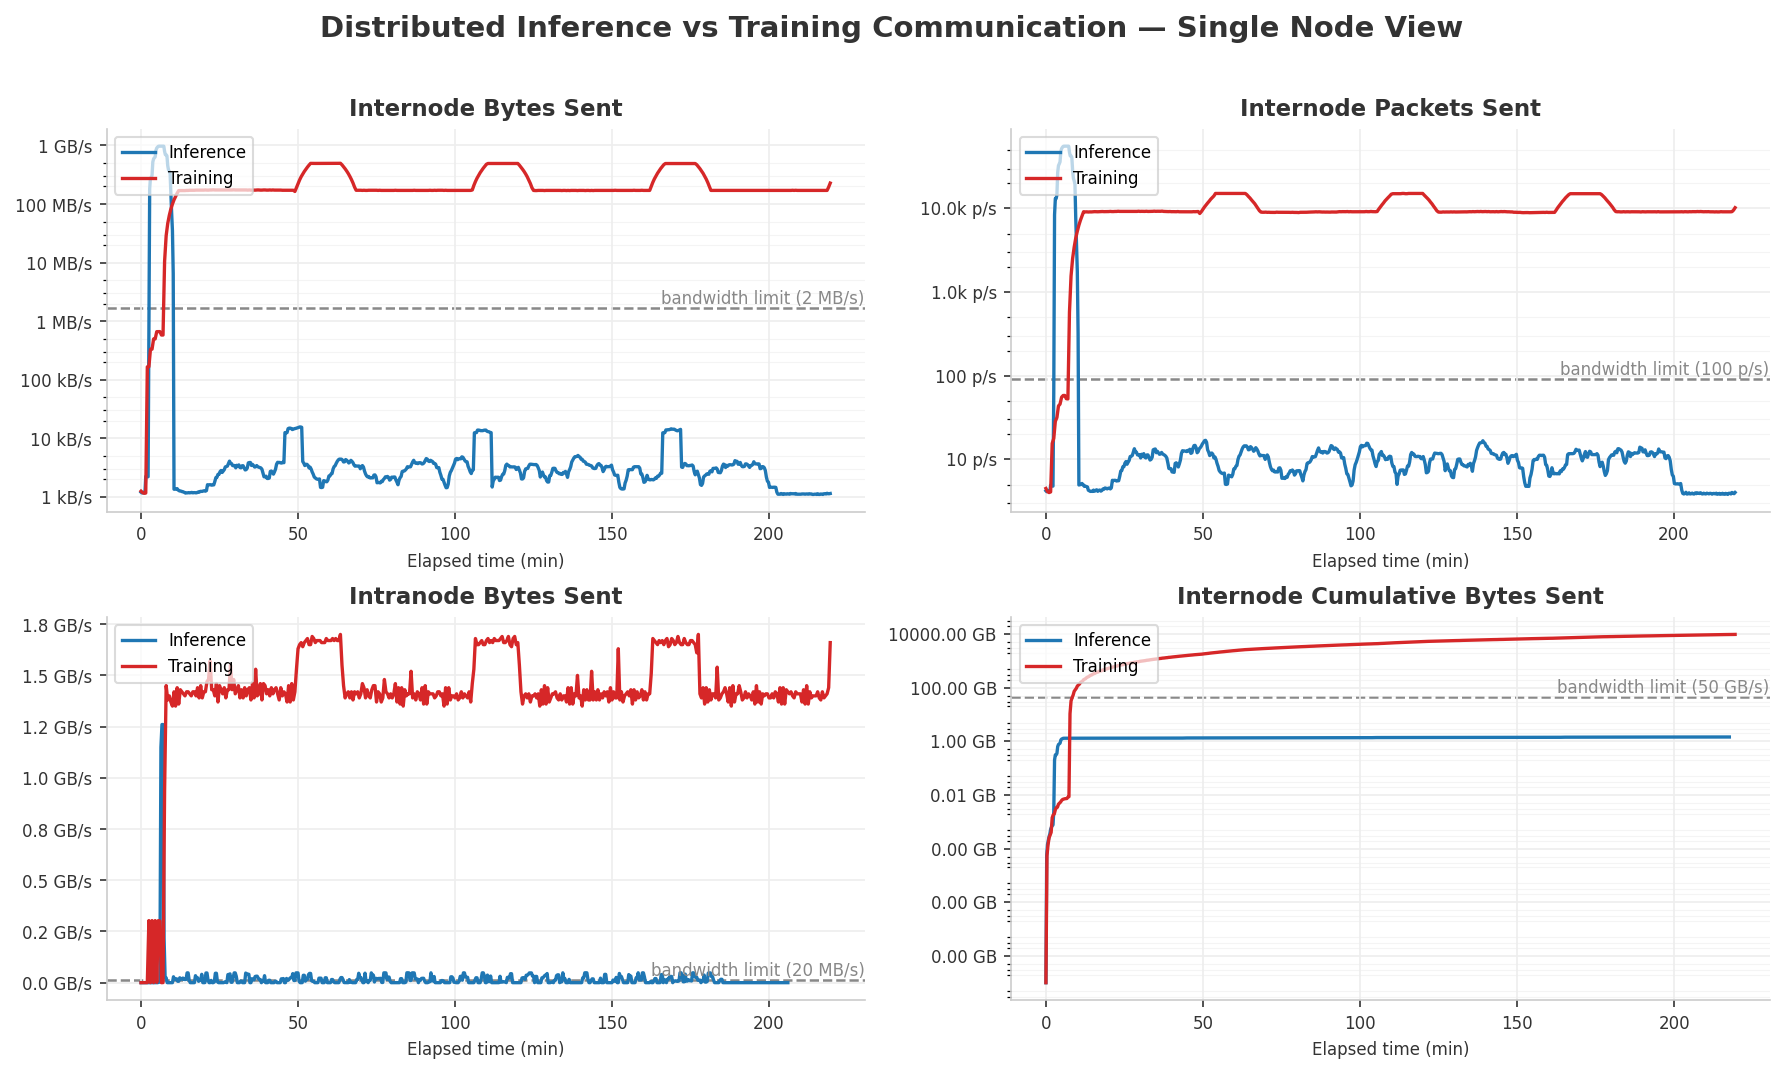
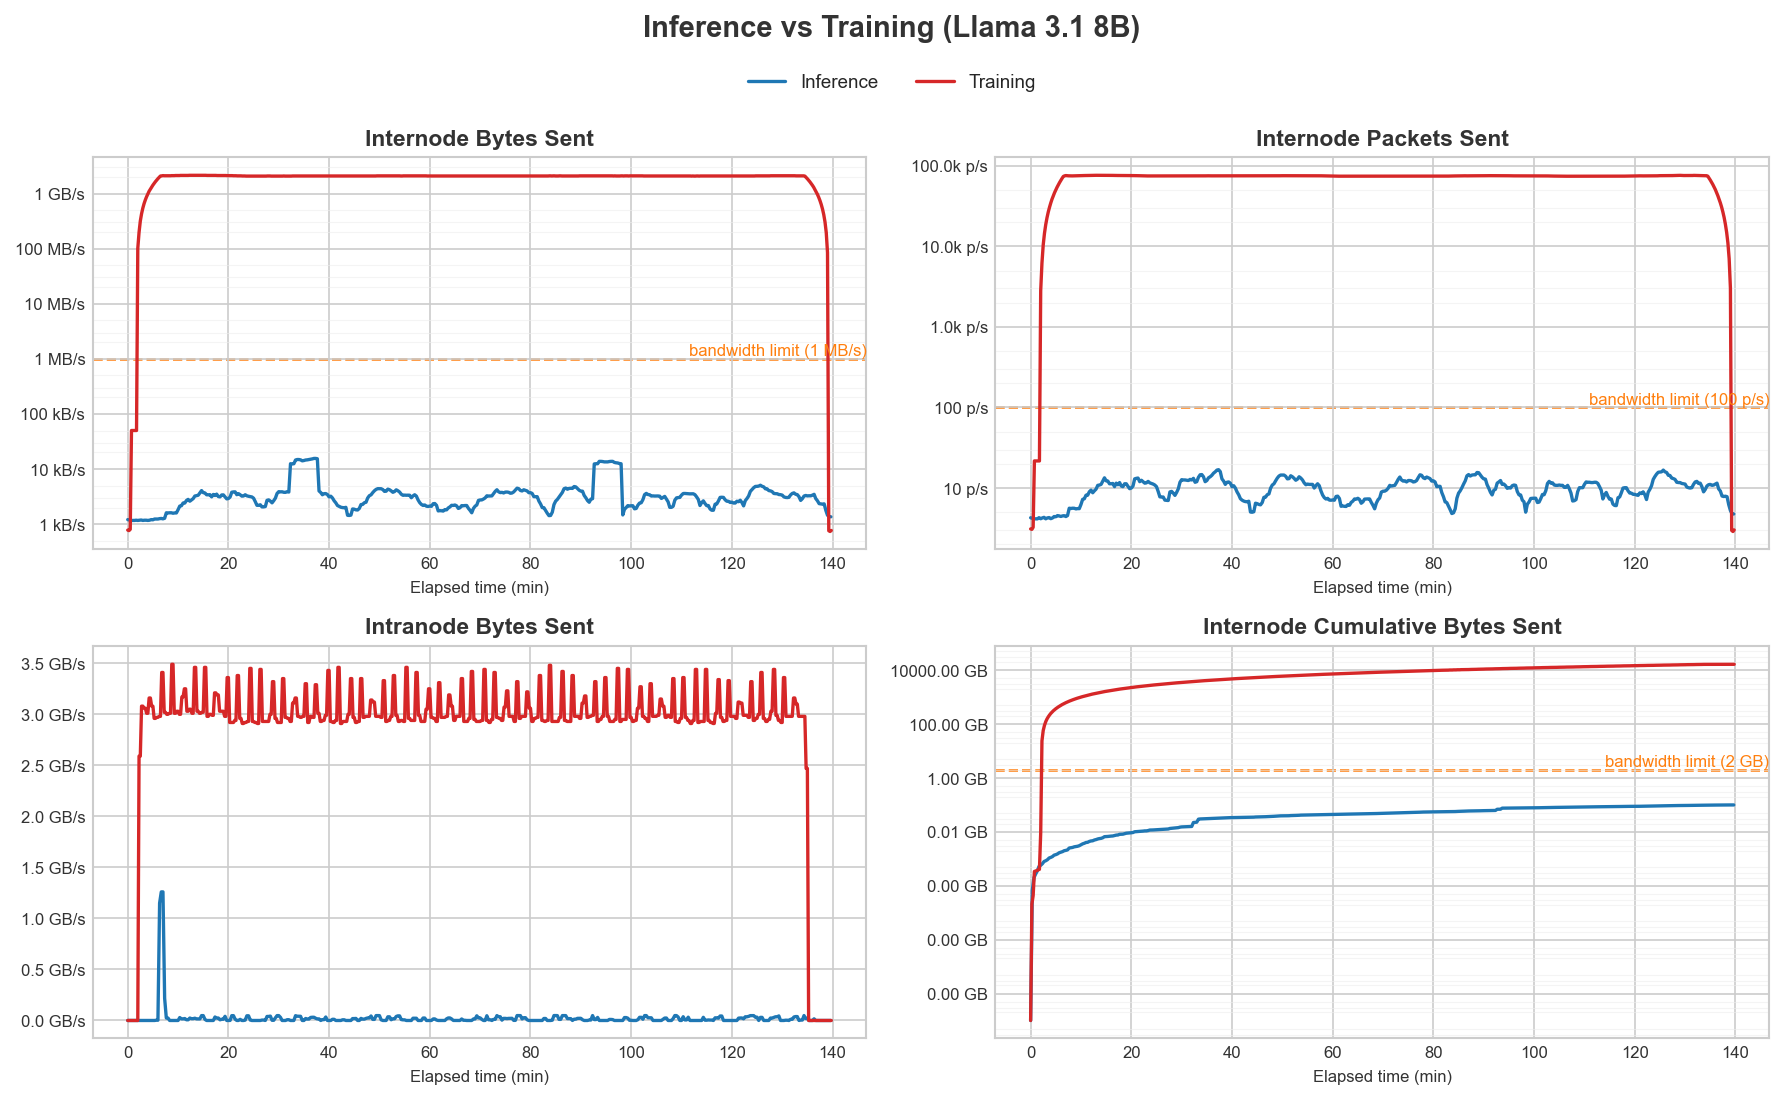
Improve comparison plots: fixed thresholds, styling, MoE dashboard
- Set fixed bandwidth thresholds (1 MB/s internode bytes, 100 p/s packets, 2 GB cumulative)
- Remove threshold from intranode bytes panel
- Change threshold lines to orange
- Move legend to single shared instance above panels
- Apply seaborn-v0_8-whitegrid theme
- Make title a parameter (defaults to Llama 3.1 8B)
- Add inference vs MoE training comparison plot

diff --git a/scripts/analysis/plot_dashboard.py b/scripts/analysis/plot_dashboard.py
@@ -278,19 +278,20 @@ def load_and_aggregate(
     return t, v
 
 
-def plot_comparison(inf_folder: Path, train_folder: Path, output_path: Path) -> None:
+def plot_comparison(inf_folder: Path, train_folder: Path, output_path: Path,
+                    title: str = "Inference vs Training (Llama 3.1 8B)") -> None:
+    plt.style.use("seaborn-v0_8-whitegrid")
     INF_COLOR = "#1f77b4"   # blue  — Distributed Inference
     TRAIN_COLOR = "#d62728"  # red   — Training
-    THRESH_COLOR = "#888888"
+    THRESH_COLOR = "#ff7f0e"  # orange
 
-    # Panels: (pattern, title, unit_type, add_threshold, log_scale, differentiate)
-    # "network interface usage total" exports cumulative byte counters, so differentiate=True
-    # converts them to instantaneous rates before plotting.
+    # Panels: (pattern, title, unit_type, threshold_value, log_scale, differentiate, use_sum, force_unit)
+    # threshold_value: None = no line, float = fixed value in base units
     panels = [
-        ("Ethernet*Bytes*",    "Internode Bytes Sent",            "bytes",   True,  True,  False, False, None),
-        ("Ethernet*Packets*",  "Internode Packets Sent",          "packets", True,  True,  False, False, None),
-        ("PCIe*",              "Intranode Bytes Sent",            "bytes",   True,  False, False, False, None),
-        ("network interface*", "Internode Cumulative Bytes Sent", "bytes",   True,  True,  False, True,  "GB"),
+        ("Ethernet*Bytes*",    "Internode Bytes Sent",            "bytes",   1e6,   True,  False, False, None),
+        ("Ethernet*Packets*",  "Internode Packets Sent",          "packets", 100,   True,  False, False, None),
+        ("PCIe*",              "Intranode Bytes Sent",            "bytes",   None,  False, False, False, None),
+        ("network interface*", "Internode Cumulative Bytes Sent", "bytes",   2e9,   True,  False, True,  "GB"),
     ]
 
     # Clip both runs to the shorter duration so x-axes align.
@@ -300,27 +301,28 @@ def plot_comparison(inf_folder: Path, train_folder: Path, output_path: Path) -> 
     max_t = min(t_inf_end, t_train_end)
 
     fig, axes = plt.subplots(2, 2, figsize=(12, 7))
-    fig.patch.set_facecolor("white")
 
-    for ax, (pattern, panel_title, unit_type, add_threshold, log_scale, diff, use_sum, force_unit) in zip(axes.flat, panels):
+    for ax, (pattern, panel_title, unit_type, threshold_value, log_scale, diff, use_sum, force_unit) in zip(axes.flat, panels):
         t_inf, v_inf = load_and_aggregate(
             inf_folder, pattern, max_minutes=max_t, differentiate=diff, use_sum=use_sum)
         t_train, v_train = load_and_aggregate(
             train_folder, pattern, max_minutes=max_t, differentiate=diff, use_sum=use_sum)
 
-        ax.set_facecolor("white")
-        # clip to a small positive floor so log scale doesn't break on zeros
         floor = 1e-3 if unit_type == "packets" else 1.0
         ax.plot(t_inf, np.maximum(v_inf, floor), color=INF_COLOR,
                 linewidth=1.6, label="Inference")
         ax.plot(t_train, np.maximum(v_train, floor), color=TRAIN_COLOR,
                 linewidth=1.6, label="Training")
 
-        if add_threshold:
-            med_train = float(np.median(v_train[v_train > 0])) if (
-                v_train > 0).any() else 0
-            if med_train > 0:
-                thresh = med_train / 100
+        if threshold_value is not None and threshold_value is not False:
+            if threshold_value is True:
+                med_train = float(np.median(v_train[v_train > 0])) if (
+                    v_train > 0).any() else 0
+                thresh = med_train / 100 if med_train > 0 else None
+            else:
+                thresh = float(threshold_value)
+
+            if thresh is not None and thresh > 0:
                 if unit_type == "packets":
                     if thresh >= 1e6:
                         thresh_str = f"{_fmt_num(thresh/1e6)}M p/s"
@@ -328,6 +330,8 @@ def plot_comparison(inf_folder: Path, train_folder: Path, output_path: Path) -> 
                         thresh_str = f"{_fmt_num(thresh/1e3)}k p/s"
                     else:
                         thresh_str = f"{_fmt_num(thresh)} p/s"
+                elif force_unit == "GB":
+                    thresh_str = f"{thresh/1e9:.0f} GB"
                 elif thresh >= 1e9:
                     thresh_str = f"{_fmt_num(thresh/1e9)} GB/s"
                 elif thresh >= 1e6:
@@ -375,22 +379,21 @@ def plot_comparison(inf_folder: Path, train_folder: Path, output_path: Path) -> 
             ax.yaxis.set_major_formatter(
                 ticker.FuncFormatter(packets_formatter))
 
-        ax.legend(loc="upper left", fontsize=8,
-                  framealpha=0.7, edgecolor="#cccccc")
-        ax.spines[["top", "right"]].set_visible(False)
-        ax.spines[["left", "bottom"]].set_color("#cccccc")
-        ax.grid(True, color="#eeeeee", linewidth=0.8)
-
     fig.suptitle(
-        "Distributed Inference vs Training Communication — Single Node View",
+        title,
         fontsize=14,
         fontweight="bold",
         color="#333333",
-        y=1.01,
+        y=1.04,
     )
     fig.tight_layout()
-    fig.savefig(output_path, dpi=150, bbox_inches="tight", facecolor="white")
+    handles, labels = axes.flat[0].get_legend_handles_labels()
+    fig.legend(handles, labels, loc="upper center", ncol=2, fontsize=9,
+               framealpha=0.7, edgecolor="#cccccc",
+               bbox_to_anchor=(0.5, 1.0))
+    fig.savefig(output_path, dpi=150, bbox_inches="tight")
     plt.close(fig)
+    plt.style.use("default")
     print(f"Saved: {output_path}")
 
 
